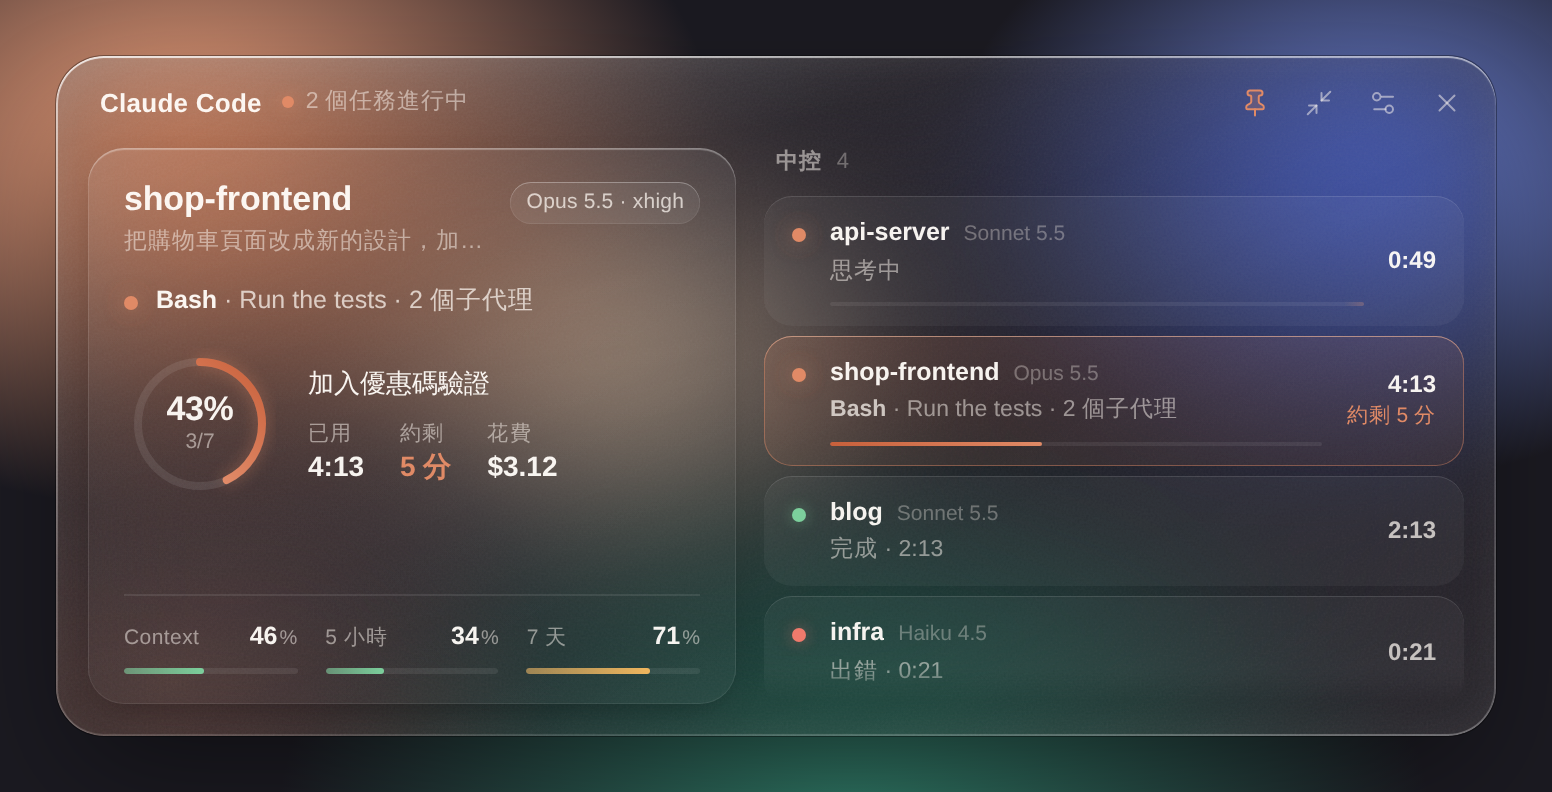
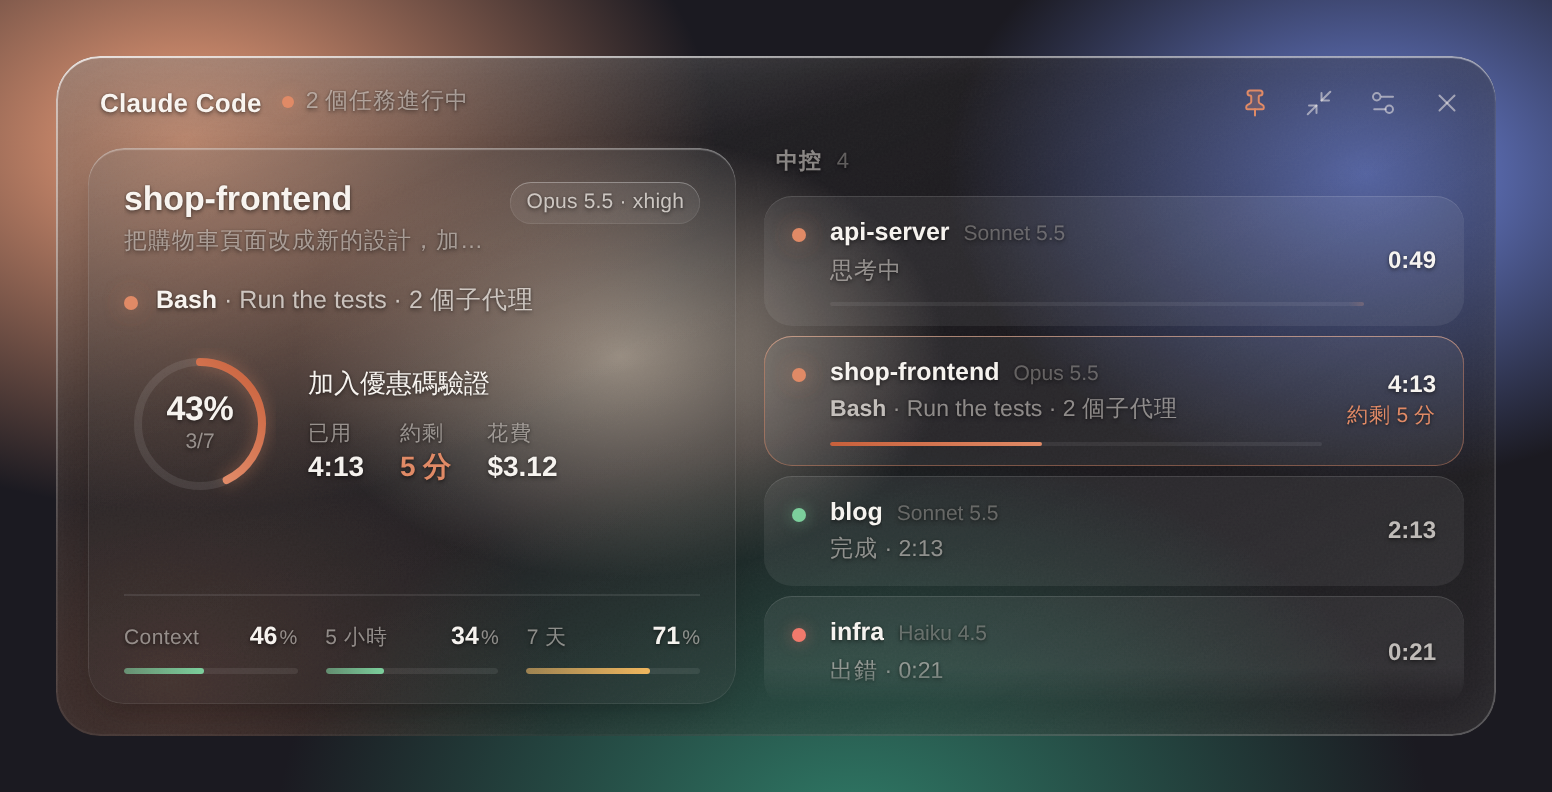
Claude Widget 0.3.0: clear glass by default, with a tint setting
Windows' acrylic goes solid grey whenever the window loses focus, so the
widget now draws its own glass on a transparent window: the desktop shows
through, with a tint the person sets and a lit rim. Frosted stays as an
option in Settings.

Claude-Session: https://claude.ai/code/session_01RavWcbRWkHaMiu2jQ6BGJU

diff --git a/claude-widget/ui/app.js b/claude-widget/ui/app.js
@@ -17,8 +17,9 @@ const WORDS = {
     ago: '前',
     s: {
       title: '設定', pairHint: '在每台電腦的 Claude Code 裡打一次這行，之後每個本機 session 都會自動出現。',
+      look: '背景', clear: '透明', frosted: '毛玻璃', tint: '底色深淺',
       copy: '複製', copied: '已複製', notify: '完成時通知（任務超過 10 秒）', lang: '語言', port: '連接埠', done: '完成',
-      privacy: '只聽本機 127.0.0.1，資料不會離開這台電腦。沒有這組配對碼的程式送不進來。',
+      privacy: '只聽本機 127.0.0.1:47615，資料不會離開這台電腦。毛玻璃在視窗沒被點選時，Windows 會換成灰色。',
     },
   },
   en: {
@@ -35,8 +36,9 @@ const WORDS = {
     ago: 'ago',
     s: {
       title: 'Settings', pairHint: 'Run this once in Claude Code on this computer; every local session then shows up.',
+      look: 'Background', clear: 'Clear', frosted: 'Frosted', tint: 'Tint',
       copy: 'Copy', copied: 'Copied', notify: 'Notify when a task ends (over 10 s)', lang: 'Language', port: 'Port', done: 'Done',
-      privacy: 'Listens on 127.0.0.1 only; nothing leaves this computer. Programs without this code are refused.',
+      privacy: 'Listens on 127.0.0.1:47615 only; nothing leaves this computer. Windows turns Frosted grey while the window is not focused.',
     },
   },
 }
@@ -250,6 +252,10 @@ function draw() {
   const limits = views.find(v => v.s.limits?.length)?.s.limits ?? []
 
   $('app').classList.toggle('compact', state.compact)
+  const root = document.documentElement
+  root.classList.toggle('clear', state.clear !== false)
+  root.classList.toggle('frosted', state.clear === false)
+  root.style.setProperty('--tint', String((state.tint ?? 30) / 100))
   $('summary').textContent = running ? W.running(running) : ''
   $('summary').classList.toggle('live', running > 0)
   $('hub-title').textContent = W.hub
@@ -272,10 +278,15 @@ function drawSettings() {
   if ($('copy').dataset.done !== '1') $('copy-text').textContent = W.s.copy
   $('s-notify').textContent = W.s.notify
   $('notify').checked = state.notify
+  $('s-look').textContent = W.s.look
+  $('look').options[0].textContent = W.s.clear
+  $('look').options[1].textContent = W.s.frosted
+  $('look').value = state.clear === false ? 'frosted' : 'clear'
+  $('s-tint').textContent = W.s.tint
+  if (document.activeElement !== $('tint')) $('tint').value = String(state.tint ?? 30)
+  $('tint-row').hidden = state.clear === false
   $('s-lang').textContent = W.s.lang
   $('lang').value = state.lang
-  $('s-port').textContent = W.s.port
-  $('port').textContent = `127.0.0.1:${state.port}`
   $('s-privacy').textContent = W.s.privacy
   $('s-done').textContent = W.s.done
 }
@@ -339,6 +350,12 @@ document.addEventListener('click', async e => {
 })
 $('notify').addEventListener('change', e => setPref('notify', e.target.checked))
 $('lang').addEventListener('change', e => setPref('lang', e.target.value))
+$('look').addEventListener('change', e => setPref('clear', e.target.value === 'clear'))
+$('tint').addEventListener('input', e => {
+  state.tint = Number(e.target.value)
+  draw()
+})
+$('tint').addEventListener('change', e => setPref('tint', Number(e.target.value)))
 
 refresh()
 setInterval(refresh, 1000)
@@ -351,7 +368,7 @@ function demo(cmd, args) {
     document.documentElement.classList.add('demo')
     const base = { v: 1, agents: 0, limits: [{ kind: 'five_hour', percent: 34 }, { kind: 'seven_day', percent: 71 }] }
     demo.s = {
-      token: 'k7Qm2vX9pL4tR8wZ3nY6', port: 47615, pinned: true, compact: false, notify: true,
+      token: 'k7Qm2vX9pL4tR8wZ3nY6', port: 47615, pinned: true, compact: false, notify: true, clear: true, tint: 30,
       lang: new URLSearchParams(location.search).get('lang') || 'zh', paired: true,
       sessions: [
         { ...base, id: 'a', project: 'shop-frontend', model: 'claude-opus-5-5', effort: 'xhigh', status: 'running', phase: 'tool',

diff --git a/claude-widget/ui/style.css b/claude-widget/ui/style.css
@@ -315,11 +315,12 @@ svg { display: block; }
 
 .settings {
   position: absolute; inset: 0; z-index: 2;
-  padding: 24px 28px 22px;
+  padding: 20px 26px 18px;
   background: linear-gradient(160deg, rgba(40, 32, 29, 0.97), rgba(26, 21, 19, 0.985));
   backdrop-filter: blur(24px);
   -webkit-backdrop-filter: blur(24px);
-  display: flex; flex-direction: column; gap: 12px;
+  display: flex; flex-direction: column; gap: 10px;
+  overflow-y: auto;
 }
 .settings[hidden] { display: none; }
 .settings h2 { margin: 0; font: 600 16px var(--display); }
@@ -350,7 +351,7 @@ svg { display: block; }
 }
 .chip.accent:hover { filter: brightness(1.06); }
 .rows { display: flex; flex-direction: column; }
-.row { display: flex; justify-content: space-between; align-items: center; min-height: 38px; border-bottom: 0.5px solid var(--hair); }
+.row { display: flex; justify-content: space-between; align-items: center; gap: 16px; min-height: 34px; border-bottom: 0.5px solid var(--hair); }
 .row select {
   background: rgba(0, 0, 0, 0.25); color: var(--ink);
   border: 0; box-shadow: inset 0 0 0 0.5px rgba(255, 255, 255, 0.14);
@@ -370,5 +371,37 @@ input[type="checkbox"]:checked { background: var(--clay); }
 input[type="checkbox"]:checked::after { transform: translateX(14px); }
 
 /* In the app, Windows draws the blur and tint (acrylic) and rounds the window. */
-html.native .glass { border-radius: 8px; backdrop-filter: none; -webkit-backdrop-filter: none; background: linear-gradient(155deg, rgba(255, 255, 255, 0.12) 0%, rgba(255, 255, 255, 0.03) 32%, rgba(255, 255, 255, 0.01) 60%, rgba(255, 255, 255, 0.05) 100%); box-shadow: inset 0 1px 0.5px rgba(255, 255, 255, 0.45), inset 0 0 22px rgba(255, 255, 255, 0.04); }
-html.native .compact.glass { border-radius: 8px; }
+html.native.frosted .glass { border-radius: 8px; backdrop-filter: none; -webkit-backdrop-filter: none; background: linear-gradient(155deg, rgba(255, 255, 255, 0.12) 0%, rgba(255, 255, 255, 0.03) 32%, rgba(255, 255, 255, 0.01) 60%, rgba(255, 255, 255, 0.05) 100%); box-shadow: inset 0 1px 0.5px rgba(255, 255, 255, 0.45), inset 0 0 22px rgba(255, 255, 255, 0.04); }
+html.native.frosted .compact.glass { border-radius: 8px; }
+
+/* Clear: the desktop shows through untouched; a tint only as dark as asked
+   keeps the text readable, and the light still catches the rim. */
+html.clear .glass {
+  border-radius: 22px;
+  backdrop-filter: none;
+  -webkit-backdrop-filter: none;
+  background:
+    linear-gradient(155deg, rgba(255, 255, 255, 0.14) 0%, rgba(255, 255, 255, 0.03) 30%, rgba(255, 255, 255, 0) 60%, rgba(255, 255, 255, 0.05) 100%),
+    rgba(16, 12, 11, var(--tint, 0.3));
+  box-shadow: inset 0 1px 0.5px rgba(255, 255, 255, 0.5), inset 0 0 24px rgba(255, 255, 255, 0.05);
+}
+html.clear .compact.glass { border-radius: 999px; }
+html.clear body { text-shadow: 0 1px 2px rgba(0, 0, 0, 0.45), 0 0 1px rgba(0, 0, 0, 0.3); }
+html.clear .pane { background: linear-gradient(170deg, rgba(255, 255, 255, 0.1), rgba(255, 255, 255, 0.03) 55%, rgba(255, 255, 255, 0.05)), rgba(16, 12, 11, calc(var(--tint, 0.3) * 0.5)); }
+html.clear .task { background: rgba(255, 255, 255, 0.07); }
+html.clear .grain { opacity: 0.05; }
+html.clear .settings, html.clear .settings * { text-shadow: none; }
+
+input[type="range"] {
+  appearance: none; width: 150px; height: 4px; border-radius: 2px; margin: 0;
+  background: rgba(255, 255, 255, 0.16); cursor: pointer;
+}
+input[type="range"]::-webkit-slider-thumb {
+  appearance: none; width: 16px; height: 16px; border-radius: 50%;
+  background: linear-gradient(180deg, #fff, #ece7e2); box-shadow: 0 1px 3px rgba(0, 0, 0, 0.4);
+}
+.row[hidden] { display: none; }
+
+.foot-row { display: flex; align-items: center; gap: 18px; margin-top: auto; }
+.foot-row p { flex: 1; }
+.foot-row .chip.accent { margin-top: 0; flex: none; }

diff --git a/claude-widget/ui/index.html b/claude-widget/ui/index.html
@@ -43,13 +43,18 @@
     </div>
     <div class="rows">
       <label class="row"><span id="s-notify"></span><input id="notify" type="checkbox"></label>
+      <label class="row"><span id="s-look"></span>
+        <select id="look"><option value="clear"></option><option value="frosted"></option></select>
+      </label>
+      <label class="row" id="tint-row"><span id="s-tint"></span><input id="tint" type="range" min="0" max="90" step="5"></label>
       <label class="row"><span id="s-lang"></span>
         <select id="lang"><option value="zh">繁體中文</option><option value="en">English</option></select>
       </label>
-      <div class="row"><span id="s-port"></span><span id="port" class="dim mono"></span></div>
     </div>
-    <p id="s-privacy" class="dim small"></p>
-    <button id="s-done" class="chip accent"></button>
+    <div class="foot-row">
+      <p id="s-privacy" class="dim small"></p>
+      <button id="s-done" class="chip accent"></button>
+    </div>
   </section>
 </main>
 <script src="app.js"></script>

diff --git a/claude-widget/src-tauri/src/main.rs b/claude-widget/src-tauri/src/main.rs
@@ -12,6 +12,7 @@ use std::time::{SystemTime, UNIX_EPOCH};
 
 use serde::{Deserialize, Serialize};
 use serde_json::{json, Value};
+use tauri::window::{Color, Effect, EffectsBuilder};
 use tauri::{AppHandle, LogicalSize, Manager, State};
 use tauri_plugin_notification::NotificationExt;
 
@@ -32,6 +33,21 @@ struct Prefs {
     compact: bool,
     notify: bool,
     lang: String,
+    // Clear glass (the desktop shows through) or Windows' frosted acrylic,
+    // which Windows turns solid grey while the window is not focused.
+    #[serde(default = "is_clear")]
+    clear: bool,
+    // How dark the tint behind the text is, 0 to 90.
+    #[serde(default = "default_tint")]
+    tint: u8,
+}
+
+fn is_clear() -> bool {
+    true
+}
+
+fn default_tint() -> u8 {
+    30
 }
 
 struct Shared {
@@ -57,7 +73,15 @@ fn load_prefs(path: &PathBuf) -> Prefs {
         Some(p) if p.token.len() >= 16 && p.token.chars().all(|c| c.is_ascii_alphanumeric()) => p,
         _ => {
             // The window picks the language on its first run, from the system's.
-            let p = Prefs { token: new_token(), pinned: true, compact: false, notify: true, lang: String::new() };
+            let p = Prefs {
+                token: new_token(),
+                pinned: true,
+                compact: false,
+                notify: true,
+                lang: String::new(),
+                clear: is_clear(),
+                tint: default_tint(),
+            };
             save_prefs(path, &p);
             p
         }
@@ -155,6 +179,8 @@ fn state(shared: State<'_, Arc<Shared>>) -> Value {
         "compact": prefs.compact,
         "notify": prefs.notify,
         "lang": prefs.lang,
+        "clear": prefs.clear,
+        "tint": prefs.tint,
         "paired": hub.has_heard,
         "error": hub.error,
         "sessions": sessions,
@@ -182,6 +208,11 @@ fn set_pref(app: AppHandle, shared: State<'_, Arc<Shared>>, key: String, value: 
             size_window(&app, b);
         }
         ("notify", Value::Bool(b)) => prefs.notify = b,
+        ("clear", Value::Bool(b)) => {
+            prefs.clear = b;
+            dress_window(&app, b);
+        }
+        ("tint", Value::Number(n)) => prefs.tint = n.as_u64().unwrap_or(30).min(90) as u8,
         ("lang", Value::String(s)) if s == "zh" || s == "en" => prefs.lang = s,
         _ => return Err("unknown setting".into()),
     }
@@ -192,6 +223,21 @@ fn set_pref(app: AppHandle, shared: State<'_, Arc<Shared>>, key: String, value: 
 #[tauri::command]
 fn quit(app: AppHandle) {
     app.exit(0);
+}
+
+// Clear: no backdrop and no frame, the page draws its own rounded glass.
+// Frosted: Windows' acrylic with its frame, which rounds the corners.
+fn dress_window(app: &AppHandle, is_clear: bool) {
+    if let Some(w) = app.get_webview_window("main") {
+        if is_clear {
+            let _ = w.set_effects(None);
+            let _ = w.set_shadow(false);
+        } else {
+            let frosted = EffectsBuilder::new().effect(Effect::Acrylic).color(Color(30, 24, 22, 120)).build();
+            let _ = w.set_effects(frosted);
+            let _ = w.set_shadow(true);
+        }
+    }
 }
 
 fn size_window(app: &AppHandle, is_compact: bool) {
@@ -218,13 +264,14 @@ fn main() {
         .setup(|app| {
             let path = app.path().app_config_dir()?.join("prefs.json");
             let prefs = load_prefs(&path);
-            let (pinned, compact) = (prefs.pinned, prefs.compact);
+            let (pinned, compact, clear) = (prefs.pinned, prefs.compact, prefs.clear);
             let shared = Arc::new(Shared { prefs: Mutex::new(prefs), hub: Mutex::new(Hub::default()), path });
             app.manage(shared.clone());
             if let Some(w) = app.get_webview_window("main") {
                 let _ = w.set_always_on_top(pinned);
             }
             size_window(app.handle(), compact);
+            dress_window(app.handle(), clear);
             let handle = app.handle().clone();
             std::thread::spawn(move || serve(handle, shared));
             Ok(())

diff --git a/README.en.md b/README.en.md
@@ -137,6 +137,7 @@ A liquid-glass widget for the desktop that shows every local Claude Code session
 - **Left**: what the chosen session is doing (thinking, writing, which tool), a ring for its task list, time spent and **roughly how long is left**, plus context, 5-hour and weekly usage, and cost.
 - **Right, the hub**: one row per session with a status light, what it is doing, a progress bar and times; hover for ■ Stop.
 - **Done notice**: a Windows notification when a task over 10 seconds finishes, fails or is stopped.
+- Clear glass by default: the desktop shows through, with a tint you set. Windows' frosted acrylic is an option, but Windows turns it grey while the window is not focused.
 - Keep it on top or shrink it to a pill; it remembers where you put it. Traditional Chinese and English.
 
 It comes in two parts: the desktop app (`claude-widget/`) and the `widget-bridge` mod, which sends each session's status to it.

diff --git a/README.md b/README.md
@@ -136,6 +136,7 @@ claude plugin test context-gauge
 - **左邊**：選中的 session 在做什麼（思考、撰寫、執行哪個工具）、待辦清單進度環、已用時間和**約剩多久**，加上 context、5 小時、7 天用量和花費。
 - **右邊中控**：每個 session 一列，有狀態燈、目前動作、進度條和時間；滑過去會出現 ■ 停止。
 - **結束提醒**：超過 10 秒的任務完成、出錯或被停止時，跳 Windows 通知。
+- 預設是透明玻璃，桌面直接透出來，底色深淺可以調。也可以改成 Windows 的毛玻璃，但視窗沒被點選時 Windows 會把它換成灰色。
 - 可以釘在最上層，或縮成一顆膠囊；位置會記住。有繁中和英文介面。
 
 分兩部分：桌面 App（`claude-widget/`）和 mod（`widget-bridge`），mod 負責把每個 session 的狀態送給 App。

diff --git a/CHANGELOG.md b/CHANGELOG.md
@@ -1,5 +1,10 @@
 # Changelog
 
+## Claude Widget 0.3.0
+
+- Clear glass by default: the desktop shows through untouched, with a tint you set (Settings → Tint) and a lit rim. Windows' frosted acrylic is still there (Settings → Background), but Windows turns it solid grey while the window is not focused.
+- Settings fit the window; the port moved into the note at the bottom.
+
 ## Claude Widget 0.2.0
 
 - A new look: lighter glass that lets Windows' acrylic show through, a rim of light, a soft sheen and fine grain; no Claude mark; finer line icons; model names written as "Opus 5.5"; time spent, time left and cost as figures; a new app icon.
